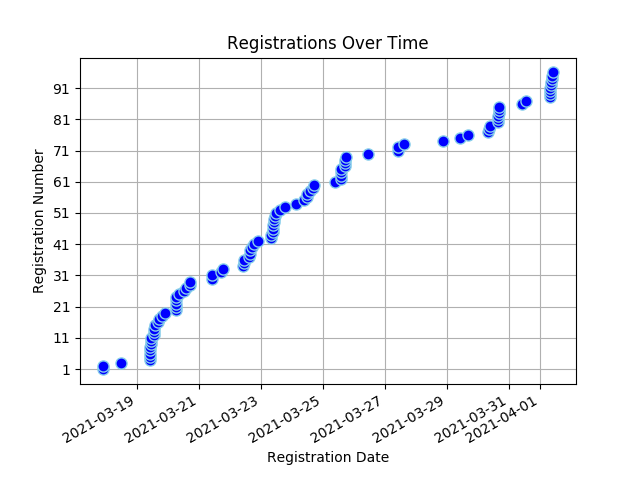
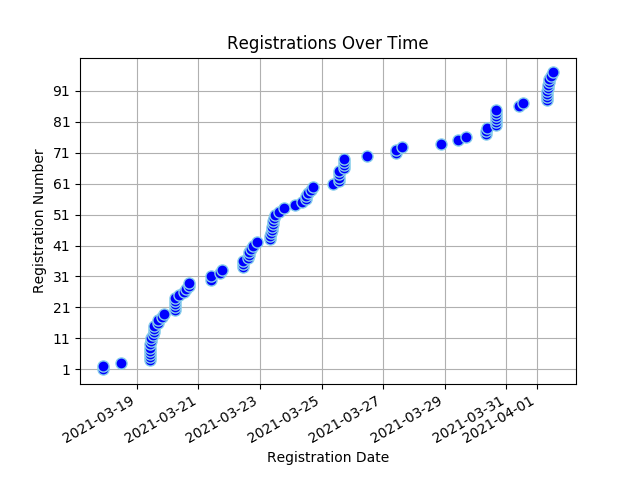
Registree stats backup on Thu 01 Apr 2021 12:53:33 SAST

diff --git a/content/registrees/_index.md b/content/registrees/_index.md
@@ -3,7 +3,7 @@ title: Registration Stats
 draft: false
 ---
 
-<ul><li><strong>Number of Registrees</strong>: 96</li>
+<ul><li><strong>Number of Registrees</strong>: 97</li>
 
 <li><strong>Number of Clubs</strong>: 41</li>
 
@@ -33,6 +33,6 @@ draft: false
         </tr>
     </thead>
     <tbody>
-<tr><td>Natalie Abrahams</td><td>Cape Town</td><td>410W</td></tr><tr><td>Linda Baumgarten</td><td>Sea Point</td><td>410W</td></tr><tr><td>Valencia Beukes-Williams</td><td>Kuilsriver</td><td>410W</td></tr><tr><td>JOSE BRAGA BORGES</td><td>Malmesbury</td><td>410W</td></tr><tr><td>Herman Cadman</td><td>Stellenbosch</td><td>410W</td></tr><tr><td>Linda Ann Cannone</td><td>Fish Hoek</td><td>410W</td></tr><tr><td>Sue Charles</td><td>Tokai</td><td>410W</td></tr><tr><td>Perry Chetty</td><td>East Coast</td><td>410E</td></tr><tr><td>Esme Cornelius</td><td>Kuilsriver</td><td>410W</td></tr><tr><td>Sharon Cottle</td><td>Groote Schuur</td><td>410W</td></tr><tr><td>Peter Daniel</td><td>Gordons Bay</td><td>410W</td></tr><tr><td>Norma Daniel</td><td>Gordons Bay</td><td>410W</td></tr><tr><td>Engela de Kock</td><td>Swellendam</td><td>410W</td></tr><tr><td>Francois de Kock</td><td>Swellendam</td><td>410W</td></tr><tr><td>ANDRE DE VILLIERS</td><td>Malgas</td><td>410W</td></tr><tr><td>Peggy Du Plooy</td><td>Krugersdorp</td><td>410E</td></tr><tr><td>Ivan Du Plooy</td><td>Krugersdorp</td><td>410E</td></tr><tr><td>Desiree du Toit</td><td>Ramsgate</td><td>410E</td></tr><tr><td>Natalie Etridge</td><td>Sedgefield</td><td>410W</td></tr><tr><td>Roger Fahrbach</td><td>Windhoek</td><td>410W</td></tr><tr><td>Beate Fahrbach</td><td>Windhoek</td><td>410W</td></tr><tr><td>Charles Flanagan</td><td>Tokai</td><td>410W</td></tr><tr><td>Jules Flanagan</td><td>Tokai</td><td>410W</td></tr><tr><td>Viv Grater</td><td>Sedgefield</td><td>410W</td></tr><tr><td>Mattheus Groves</td><td>Sedgefield</td><td>410W</td></tr><tr><td>Barbara Haywood</td><td>Eden</td><td>410W</td></tr><tr><td>Dorothy Hess</td><td>Kuilsriver</td><td>410W</td></tr><tr><td>Wendy Higgins</td><td>Wilro Park</td><td>410E</td></tr><tr><td>Jacqui Hocking</td><td>Midrand</td><td>410E</td></tr><tr><td>Cliff Hocking</td><td>Midrand</td><td>410E</td></tr><tr><td>Liz Houston</td><td>Table View</td><td>410W</td></tr><tr><td>John Houston</td><td>Table View</td><td>410W</td></tr><tr><td>Dawid Jacobs</td><td>Durbanville</td><td>410W</td></tr><tr><td>WOLSLEY Jacobson</td><td>Cape Town</td><td>410W</td></tr><tr><td>Grant Jonathan</td><td>Gordons Bay</td><td>410W</td></tr><tr><td>Jerome Kern</td><td>Groote Schuur</td><td>410W</td></tr><tr><td>Zwaai Kruger</td><td>Sedgefield</td><td>410W</td></tr><tr><td>Bevil Lakay</td><td>Mitchells Plain</td><td>410W</td></tr><tr><td>Paula Lang</td><td>Gordons Bay</td><td>410W</td></tr><tr><td>Jimmy Lang</td><td>Gordons Bay</td><td>410W</td></tr><tr><td>Zarina Luck</td><td>Newcastle</td><td>410E</td></tr><tr><td>Sharon Mangwende</td><td>Cape Town</td><td>410W</td></tr><tr><td>Beaulieu Mare</td><td>Benoni Lakes</td><td>410E</td></tr><tr><td>LANCE MAYTHAM</td><td>Swellendam</td><td>410W</td></tr><tr><td>ROSEMARIE MAYTHAM</td><td>Swellendam</td><td>410W</td></tr><tr><td>David Mccullough</td><td>Pretoria South</td><td>410E</td></tr><tr><td>Alec McKerrow</td><td>Port Alfred</td><td>410E</td></tr><tr><td>Mark Meltzer</td><td>The Wilds</td><td>410E</td></tr><tr><td>Denis Meyer</td><td>Port Shepstone</td><td>410E</td></tr><tr><td>BERNICE MILLS</td><td>Centurion</td><td>410E</td></tr><tr><td>Patrick Mills</td><td>Centurion</td><td>410E</td></tr><tr><td>Cherie Milosevich</td><td>Milnerton</td><td>410W</td></tr><tr><td>Virginia Mkhize</td><td>Cape Town</td><td>410W</td></tr><tr><td>Bernadine Moses</td><td>Cape Town</td><td>410W</td></tr><tr><td>Pieter Nel</td><td>George</td><td>410W</td></tr><tr><td>Tillie Nel</td><td>Eden</td><td>410W</td></tr><tr><td>Mike Newlands</td><td>Port Alfred</td><td>410E</td></tr><tr><td>Mike Newlands</td><td>Port Alfred</td><td>410E</td></tr><tr><td>Debra Olivier</td><td>Sedgefield</td><td>410W</td></tr><tr><td>Sundru Pillay</td><td>Durbanville</td><td>410W</td></tr><tr><td>BRIAN PORTEOUS</td><td>Hibberdene</td><td>410E</td></tr><tr><td>Irene Rugheimer</td><td>Bedfordview</td><td>410E</td></tr><tr><td>Ingrid Russell</td><td>Fish Hoek</td><td>410W</td></tr><tr><td>Sharon Sampie</td><td>Bergvliet</td><td>410W</td></tr><tr><td>Frank Schatz</td><td>Windhoek</td><td>410W</td></tr><tr><td>Vera Schatz</td><td>Windhoek</td><td>410W</td></tr><tr><td>Francis Searle</td><td>Kouga</td><td>410E</td></tr><tr><td>Gloria Searle</td><td>Kouga</td><td>410E</td></tr><tr><td>Ami Sell</td><td>Windhoek</td><td>410W</td></tr><tr><td>Sue Smit</td><td>Centurion</td><td>410E</td></tr><tr><td>Herman Smit</td><td>Swellendam</td><td>410W</td></tr><tr><td>Jeff Smith</td><td>Port Shepstone</td><td>410E</td></tr><tr><td>LYN SNYMAN</td><td>Deep South</td><td>410W</td></tr><tr><td>Diana Sochen</td><td>Sea Point</td><td>410W</td></tr><tr><td>Max Stander</td><td>Port Alfred</td><td>410E</td></tr><tr><td>RORY stier</td><td>Deep South</td><td>410W</td></tr><tr><td>Patrick Strauss</td><td>Kuilsriver</td><td>410W</td></tr><tr><td>Lauryn Talbot</td><td>Benoni Lakes</td><td>410E</td></tr><tr><td>Diane Townsend</td><td>Benoni Lakes</td><td>410E</td></tr><tr><td>Alistair Tuckett</td><td>Roodepoort Clearwater Cyber</td><td>410E</td></tr><tr><td>Carl van Blerk</td><td>Eden</td><td>410W</td></tr><tr><td>HILARY LISE VAN BREDA</td><td>Cape Town</td><td>410W</td></tr><tr><td>Marina Van de Merwe</td><td>Malmesbury</td><td>410W</td></tr><tr><td>Neville Van Rensburg</td><td>Moorreesburg</td><td>410W</td></tr><tr><td>Johan van Rensburg</td><td>Windhoek</td><td>410W</td></tr><tr><td>Anne van Rensburg</td><td>Windhoek</td><td>410W</td></tr><tr><td>Jeannie van Wulven</td><td>Tygerberg Hills</td><td>410W</td></tr><tr><td>Alan van Wulven</td><td>Tygerberg Hills</td><td>410W</td></tr><tr><td>Deon van Wulven</td><td>Tygerberg Hills</td><td>410W</td></tr><tr><td>Kim van Wyk</td><td>North Durban</td><td>410E</td></tr><tr><td>Edith Van Wyk-Nelson</td><td>Kuilsriver</td><td>410W</td></tr><tr><td>Brian von der Decken</td><td>King William's Town</td><td>410E</td></tr><tr><td>Rochelle Vorster</td><td>Sedgefield</td><td>410W</td></tr><tr><td>Allan Watson</td><td>Sea Point</td><td>410W</td></tr><tr><td>Neville Williamson</td><td>Port Alfred</td><td>410E</td></tr><tr><td>Judy Young</td><td>Durbanville</td><td>410W</td></tr>
+<tr><td>Natalie Abrahams</td><td>Cape Town</td><td>410W</td></tr><tr><td>Linda Baumgarten</td><td>Sea Point</td><td>410W</td></tr><tr><td>Valencia Beukes-Williams</td><td>Kuilsriver</td><td>410W</td></tr><tr><td>JOSE BRAGA BORGES</td><td>Malmesbury</td><td>410W</td></tr><tr><td>Herman Cadman</td><td>Stellenbosch</td><td>410W</td></tr><tr><td>Linda Ann Cannone</td><td>Fish Hoek</td><td>410W</td></tr><tr><td>Sue Charles</td><td>Tokai</td><td>410W</td></tr><tr><td>Perry Chetty</td><td>East Coast</td><td>410E</td></tr><tr><td>Esme Cornelius</td><td>Kuilsriver</td><td>410W</td></tr><tr><td>Sharon Cottle</td><td>Groote Schuur</td><td>410W</td></tr><tr><td>Peter Daniel</td><td>Gordons Bay</td><td>410W</td></tr><tr><td>Norma Daniel</td><td>Gordons Bay</td><td>410W</td></tr><tr><td>Engela de Kock</td><td>Swellendam</td><td>410W</td></tr><tr><td>Francois de Kock</td><td>Swellendam</td><td>410W</td></tr><tr><td>ANDRE DE VILLIERS</td><td>Malgas</td><td>410W</td></tr><tr><td>Peggy Du Plooy</td><td>Krugersdorp</td><td>410E</td></tr><tr><td>Ivan Du Plooy</td><td>Krugersdorp</td><td>410E</td></tr><tr><td>Desiree du Toit</td><td>Ramsgate</td><td>410E</td></tr><tr><td>Natalie Etridge</td><td>Sedgefield</td><td>410W</td></tr><tr><td>Roger Fahrbach</td><td>Windhoek</td><td>410W</td></tr><tr><td>Beate Fahrbach</td><td>Windhoek</td><td>410W</td></tr><tr><td>Charles Flanagan</td><td>Tokai</td><td>410W</td></tr><tr><td>Jules Flanagan</td><td>Tokai</td><td>410W</td></tr><tr><td>Viv Grater</td><td>Sedgefield</td><td>410W</td></tr><tr><td>Mattheus Groves</td><td>Sedgefield</td><td>410W</td></tr><tr><td>Barbara Haywood</td><td>Eden</td><td>410W</td></tr><tr><td>Dorothy Hess</td><td>Kuilsriver</td><td>410W</td></tr><tr><td>Wendy Higgins</td><td>Wilro Park</td><td>410E</td></tr><tr><td>Jacqui Hocking</td><td>Midrand</td><td>410E</td></tr><tr><td>Cliff Hocking</td><td>Midrand</td><td>410E</td></tr><tr><td>Liz Houston</td><td>Table View</td><td>410W</td></tr><tr><td>John Houston</td><td>Table View</td><td>410W</td></tr><tr><td>Dawid Jacobs</td><td>Durbanville</td><td>410W</td></tr><tr><td>WOLSLEY Jacobson</td><td>Cape Town</td><td>410W</td></tr><tr><td>Grant Jonathan</td><td>Gordons Bay</td><td>410W</td></tr><tr><td>Jerome Kern</td><td>Groote Schuur</td><td>410W</td></tr><tr><td>Zwaai Kruger</td><td>Sedgefield</td><td>410W</td></tr><tr><td>Bevil Lakay</td><td>Mitchells Plain</td><td>410W</td></tr><tr><td>Paula Lang</td><td>Gordons Bay</td><td>410W</td></tr><tr><td>Jimmy Lang</td><td>Gordons Bay</td><td>410W</td></tr><tr><td>Zarina Luck</td><td>Newcastle</td><td>410E</td></tr><tr><td>Sharon Mangwende</td><td>Cape Town</td><td>410W</td></tr><tr><td>Beaulieu Mare</td><td>Benoni Lakes</td><td>410E</td></tr><tr><td>LANCE MAYTHAM</td><td>Swellendam</td><td>410W</td></tr><tr><td>ROSEMARIE MAYTHAM</td><td>Swellendam</td><td>410W</td></tr><tr><td>David Mccullough</td><td>Pretoria South</td><td>410E</td></tr><tr><td>Alec McKerrow</td><td>Port Alfred</td><td>410E</td></tr><tr><td>Mark Meltzer</td><td>The Wilds</td><td>410E</td></tr><tr><td>Denis Meyer</td><td>Port Shepstone</td><td>410E</td></tr><tr><td>BERNICE MILLS</td><td>Centurion</td><td>410E</td></tr><tr><td>Patrick Mills</td><td>Centurion</td><td>410E</td></tr><tr><td>Cherie Milosevich</td><td>Milnerton</td><td>410W</td></tr><tr><td>Virginia Mkhize</td><td>Cape Town</td><td>410W</td></tr><tr><td>Bernadine Moses</td><td>Cape Town</td><td>410W</td></tr><tr><td>Pieter Nel</td><td>George</td><td>410W</td></tr><tr><td>Tillie Nel</td><td>Eden</td><td>410W</td></tr><tr><td>Mike Newlands</td><td>Port Alfred</td><td>410E</td></tr><tr><td>Mike Newlands</td><td>Port Alfred</td><td>410E</td></tr><tr><td>Debra Olivier</td><td>Sedgefield</td><td>410W</td></tr><tr><td>Sundru Pillay</td><td>Durbanville</td><td>410W</td></tr><tr><td>BRIAN PORTEOUS</td><td>Hibberdene</td><td>410E</td></tr><tr><td>Irene Rugheimer</td><td>Bedfordview</td><td>410E</td></tr><tr><td>Ingrid Russell</td><td>Fish Hoek</td><td>410W</td></tr><tr><td>Sharon Sampie</td><td>Bergvliet</td><td>410W</td></tr><tr><td>Frank Schatz</td><td>Windhoek</td><td>410W</td></tr><tr><td>Vera Schatz</td><td>Windhoek</td><td>410W</td></tr><tr><td>Francis Searle</td><td>Kouga</td><td>410E</td></tr><tr><td>Gloria Searle</td><td>Kouga</td><td>410E</td></tr><tr><td>Ami Sell</td><td>Windhoek</td><td>410W</td></tr><tr><td>Sue Smit</td><td>Centurion</td><td>410E</td></tr><tr><td>Herman Smit</td><td>Swellendam</td><td>410W</td></tr><tr><td>Jeff Smith</td><td>Port Shepstone</td><td>410E</td></tr><tr><td>LYN SNYMAN</td><td>Deep South</td><td>410W</td></tr><tr><td>Diana Sochen</td><td>Sea Point</td><td>410W</td></tr><tr><td>Max Stander</td><td>Port Alfred</td><td>410E</td></tr><tr><td>RORY stier</td><td>Deep South</td><td>410W</td></tr><tr><td>Patrick Strauss</td><td>Kuilsriver</td><td>410W</td></tr><tr><td>Lauryn Talbot</td><td>Benoni Lakes</td><td>410E</td></tr><tr><td>Diane Townsend</td><td>Benoni Lakes</td><td>410E</td></tr><tr><td>Alistair Tuckett</td><td>Roodepoort Clearwater Cyber</td><td>410E</td></tr><tr><td>Carl van Blerk</td><td>Eden</td><td>410W</td></tr><tr><td>HILARY LISE VAN BREDA</td><td>Cape Town</td><td>410W</td></tr><tr><td>Marina Van de Merwe</td><td>Malmesbury</td><td>410W</td></tr><tr><td>Neville Van Rensburg</td><td>Moorreesburg</td><td>410W</td></tr><tr><td>Johan van Rensburg</td><td>Windhoek</td><td>410W</td></tr><tr><td>Anne van Rensburg</td><td>Windhoek</td><td>410W</td></tr><tr><td>Jeannie van Wulven</td><td>Tygerberg Hills</td><td>410W</td></tr><tr><td>Alan van Wulven</td><td>Tygerberg Hills</td><td>410W</td></tr><tr><td>Deon van Wulven</td><td>Tygerberg Hills</td><td>410W</td></tr><tr><td>Kim van Wyk</td><td>North Durban</td><td>410E</td></tr><tr><td>Edith Van Wyk-Nelson</td><td>Kuilsriver</td><td>410W</td></tr><tr><td>Brian von der Decken</td><td>King William's Town</td><td>410E</td></tr><tr><td>Rinette Von Mollendorf</td><td>Durbanville</td><td>410W</td></tr><tr><td>Rochelle Vorster</td><td>Sedgefield</td><td>410W</td></tr><tr><td>Allan Watson</td><td>Sea Point</td><td>410W</td></tr><tr><td>Neville Williamson</td><td>Port Alfred</td><td>410E</td></tr><tr><td>Judy Young</td><td>Durbanville</td><td>410W</td></tr>
 </tbody>
 </table>

diff --git a/content/full_stats/_index.md b/content/full_stats/_index.md
@@ -16,16 +16,16 @@ draft: false
 </head>
 <body>
 <h1 style="color: #000000;">Full Registration Stats</h1>
-<ul><li><strong>Number of Registrees</strong>: 96</li>
+<ul><li><strong>Number of Registrees</strong>: 97</li>
 <li><strong>Number of Clubs</strong>: 41</li>
 <li><strong>Club With Most Attendees</strong>: Windhoek (7 registrees)</li>
 
-<li><strong>Number of District 410W Convention Attendees</strong>: 65</li>
+<li><strong>Number of District 410W Convention Attendees</strong>: 66</li>
 <li><strong>Number of District 410W Convention Voters</strong>: 34</li>
 <li><strong>Number of District 410E Convention Attendees</strong>: 29</li>
 <li><strong>Number of District 410E Convention Voters</strong>: 15</li>
 
-<li><strong>Number of MD410 Convention Attendees</strong>: 83</li>
+<li><strong>Number of MD410 Convention Attendees</strong>: 84</li>
 <li><strong>Number of MD410 Convention Voters</strong>: 45</li>
 
 </ul>
@@ -1070,6 +1070,17 @@ draft: false
 <td style="background-color: lightgreen">Yes</td>
 <td style="background-color: lightgreen">Yes</td>
 <td>No</td>
+</tr>
+
+    
+<td>102</td>
+<td>Rinette Von Mollendorf</td>
+<td>Durbanville</td>
+<td>410W</td>
+<td>No</td>
+<td style="background-color: lightgreen">Yes</td>
+<td style="background-color: lightgreen">Yes</td>
+<td style="background-color: lightgreen">Yes</td>
 </tr>
 
     
